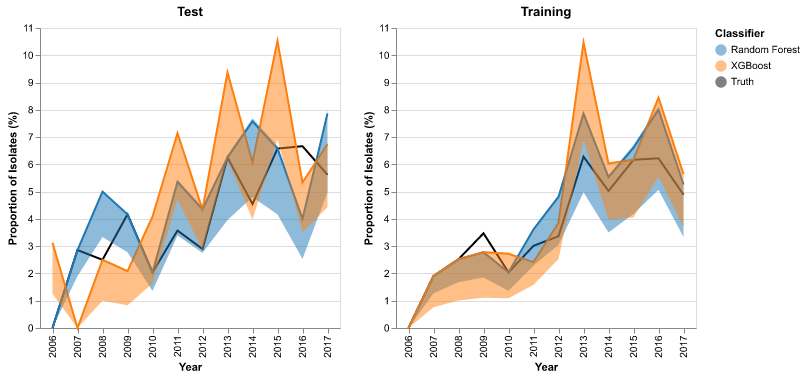
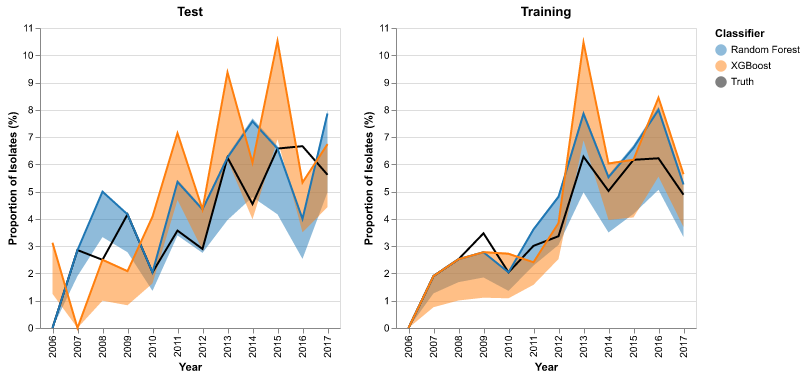
updating chart layering order

diff --git a/scripts/classifierutils.py b/scripts/classifierutils.py
@@ -298,7 +298,7 @@ def testClassifiers(df:pd.core.frame.DataFrame, err_df:pd.core.frame.DataFrame, 
             y2=alt.Y2("min:Q", title="Proportion of Isolates (%)"),
             color=alt.Color("Classifier:N", sort=c_domain).scale(domain=c_domain, range=c_range)
         )
-        chrt = line+err_band
+        chrt = err_band+line
         chrt = chrt.properties(width=300, height=300)
         charts.append(chrt)
 
@@ -422,7 +422,7 @@ def predictClassifiers(uti_df:pd.core.frame.DataFrame, bsi_df:pd.core.frame.Data
         y2=alt.Y2("min:Q", title="Proportion of Isolates (%)"),
         color=alt.Color("Classifier:N", title="Trend")
     )
-    chart = line+err
+    chart = err+line
     chart = chart.properties(
         width=600, 
         height=300
